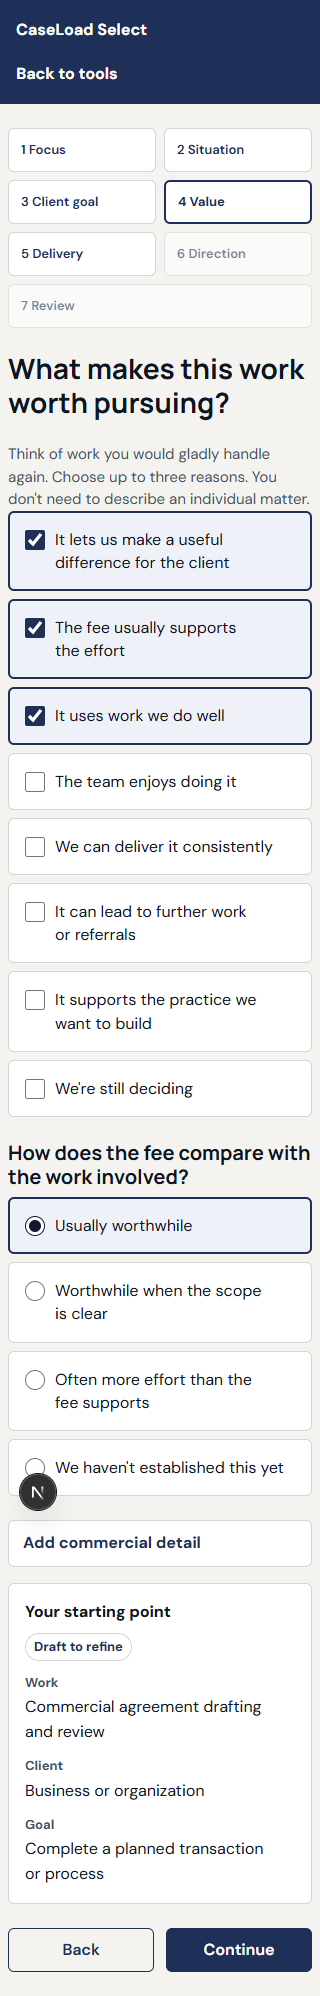
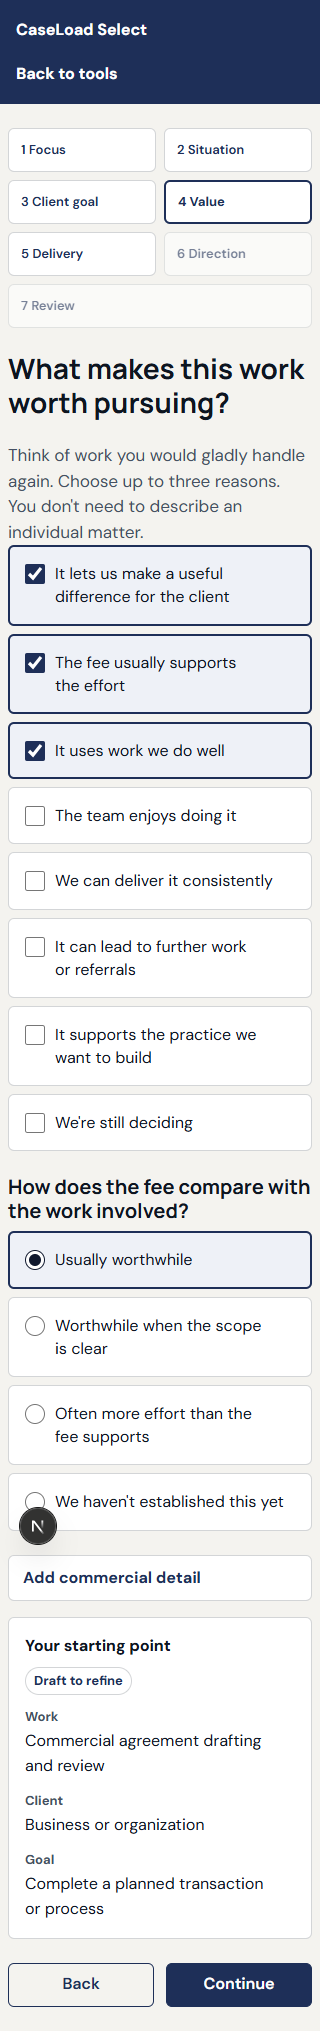
docs: record verified Desired Client review and remaining AI gate

diff --git a/docs/desired-client-v2/VERIFICATION.md b/docs/desired-client-v2/VERIFICATION.md
@@ -1,5 +1,5 @@
 # Desired Client V2 verification
-Date: 2026-09-24. Status: final local checks running. Not released.
+Implementation: 2026-09-24. Verification updated: 2026-09-25 UTC. Status: structured workflow ready for draft review; AI adapter blocked. Not released.
 
 ## Scope and source
 - App: `codex/desired-client-v2-app`, base `18b51a62ff79d19d0a5706deebfcd7087cfa288d`.
@@ -15,9 +15,9 @@ Date: 2026-09-24. Status: final local checks running. Not released.
[1 lines of base64/hex data omitted]
 | Scoped unit/regression tests | PASS: 83 tests across 9 files, including the existing shared limiter tests, new fail-closed buckets, answer/output validation, draft expiry, reducer lifecycle, exports, disconnected API, and exact framing-header boundary. |
 | Full repository lint | PASS: zero errors, 373 warnings. Final changed view/harness/header files also passed focused ESLint after subsequent edits. |
-| TypeScript | Pending: rerun after the production build regenerates Next types. The earlier failure was confined to malformed generated development types. |
-| Production app build | Running: asset, marketing-copy and scheduled-route guards passed; production compilation is in progress. |
-| Combined real-browser review | PASS: 27 tests, including all six direct and embedded viewport checks. `review/review-browser-results.json` records the final combined run. |
+| TypeScript | PASS in GitHub CI at `8f5ec9d6`, and in the successful Vercel preview build. Local forced-Webpack build fails on an unchanged baseline notification-route export; see the limitation below. |
+| App production build for preview | PASS on Vercel at `8f5ec9d6`: Next 16.2.9 Turbopack, TypeScript finished, deployment READY. This is a preview, not a production release. Local Webpack compilation passed but subsequent generated-route validation failed on an inherited route export. |
+| Combined real-browser review | PASS: 27 tests at `9c4ad373`, including six direct and embedded viewport checks. `review/review-browser-results.json` records that combined run. After the phone guidance CSS refinement, the complete 20-test direct journey passed in GitHub CI at `8f5ec9d6` (run 36086975434). |
 | Structured-output semantic review | PASS for the seven fixed variants in `review/structured-fixtures.json`; see `REVIEW.md`. This is not a live AI-output assessment. |
 | Website ACTS guard | PASS before and after final static build. |
 | Website static build | PASS. Output includes the wrapper, stylesheet and embed script. The generated cleanup target was verified inside the isolated worktree. |
@@ -26,14 +26,23 @@ Date: 2026-09-24. Status: final local checks running. Not released.
 | Live AI/provider integration | NOT IMPLEMENTED: blocked on the explicit provider authorization requested below. |
 | Production configuration | NOT VERIFIED OR CHANGED. |
 | Five-lawyer usability study | NOT RUN. No recruitment messages were sent. |
-| GitHub CI | Check the attached draft PRs for current status. Local checks are not a substitute for required PR checks. |
+| GitHub CI | At `8f5ec9d6`, full Vitest, ESLint, TypeScript, direct Desired Client browser tests, other browser gates and Vercel previews passed. The real-Postgres concurrency job also passed; the complete main workflow 36086975409 finished successfully. Website PR 26 checks passed. See the PRs for later status. |
 
 ## Browser evidence and coverage
 The paired browser run uses installed Chrome, the app on localhost:3301 and the website fixture on localhost:3300. Every test uses fictional answers. The current acceptance record is `review/review-browser-results.json`; screenshots are in the same directory.
 
 Coverage includes six viewports (1440, 1024, 768, 640, 375 and 320), welcome/focus/value/review/brief presentation, native keyboard controls, dialog Escape/focus behavior, optional comparison, no-typing unknown route, no-AI completion/resume/export with zero analyze requests, AI outage/network fallback, bounded mocked clarification attempts, stale-response cancellation, clipboard denial, draft expiry/clearing, source answers in print, and iframe origin/source checks plus stable growth/shrinkage. AI-success browser scenarios use intercepted fictional responses; the actual local API is separately checked to return controlled `AI_DISABLED` with no-store.
 
+A focused local real-Chrome rerun after the final CSS change passed both 375px and 320px journeys (2/2). `review/phone-browser-results.json` and refreshed phone screenshots record this check.
+
 Before/after evidence retains `before-768-value-layout.png` and `before-1440-welcome-wrap.png`. No viewport or editorial exception was waived. These checks cover the named fixtures and states, not every possible user-written phrase or a usability study.
+
+## Local build limitation and remote evidence
+The local `npm run build -- --webpack` completed compilation but failed Next generated route validation because `src/app/api/cron/notification-batch/route.ts` exports `buildDigest`. That file has the identical Git blob (`abfd1823...`) at base `18b51a62` and implementation `8f5ec9d6`; Desired Client did not modify it. The successful Vercel build used the configured `next build` with Turbopack and completed TypeScript. The fresh CI typecheck runs `tsc` without generating the same Webpack route validators. No unrelated notification code was changed to hide this discrepancy. The default local Turbopack attempt was stopped before completion; no local production-build pass is claimed.
+
+Verified preview deployment: `dpl_2a3kwfbgQ1pfwULSeQY2kXqjsGSR`, branch `codex/desired-client-v2-app`, commit `8f5ec9d6bb4674316e2c34e9fd964c636b7f80e8`, READY, target null (preview). URL: https://caseload-select-7sntr6f7o-adrianosortudo-7282s-projects.vercel.app/tools/desired-client-matter. Vercel sign-in is required by the existing preview protection.
+
+Draft app PR: https://github.com/adrianosortudo-source/caseload-select/pull/317. Companion website PR: https://github.com/adrianosortudo-source/caseloadselect-site/pull/26.
 
 ## Provider authorization: outstanding work
 Automatic approval review rejected writing the Google Gemini adapter because trusted authorization did not explicitly specify the answer payload and external destination. Root requested permission to implement opt-in transmission of selected answers, optional wording and commercial ranges to Google Gemini, plus fictional-input tests. No answer to that request has arrived. No workaround, provider request or production setting change was attempted.

diff --git a/docs/desired-client-v2/spec/03_ENGINEERING_AND_RELEASE.md b/docs/desired-client-v2/spec/03_ENGINEERING_AND_RELEASE.md
@@ -364,3 +364,4 @@ Astra decision from actual Chrome review, 24 September 2026:
 - Display the deterministic `Fee compared with effort: ` fact as a semantic label/value pair in the brief view, while preserving the exact stored and exported statement and its provenance. Other statement rendering is unchanged.
 - Allow pretty wrapping on the wrapper introduction where the observed phone layout ended in a single word. Re-measure all six prescribed widths; CSS declarations alone do not pass the gate.
 - Support a paired full browser review through `DESIRED_CLIENT_FULL_REVIEW=1` with `playwright.desired-client-embed.config.ts`. This runs the existing direct and embed tests together and writes `review-browser-results.json`. The CI direct browser job remains independent of a second repository checkout.
+- Final Linux/Chrome CI correction: at <=380px, question guidance uses natural wrapping; the Value-stage helper uses 17px type. The full 20-test direct browser journey passed at 8f5ec9d6 without line-break or viewport exceptions.
